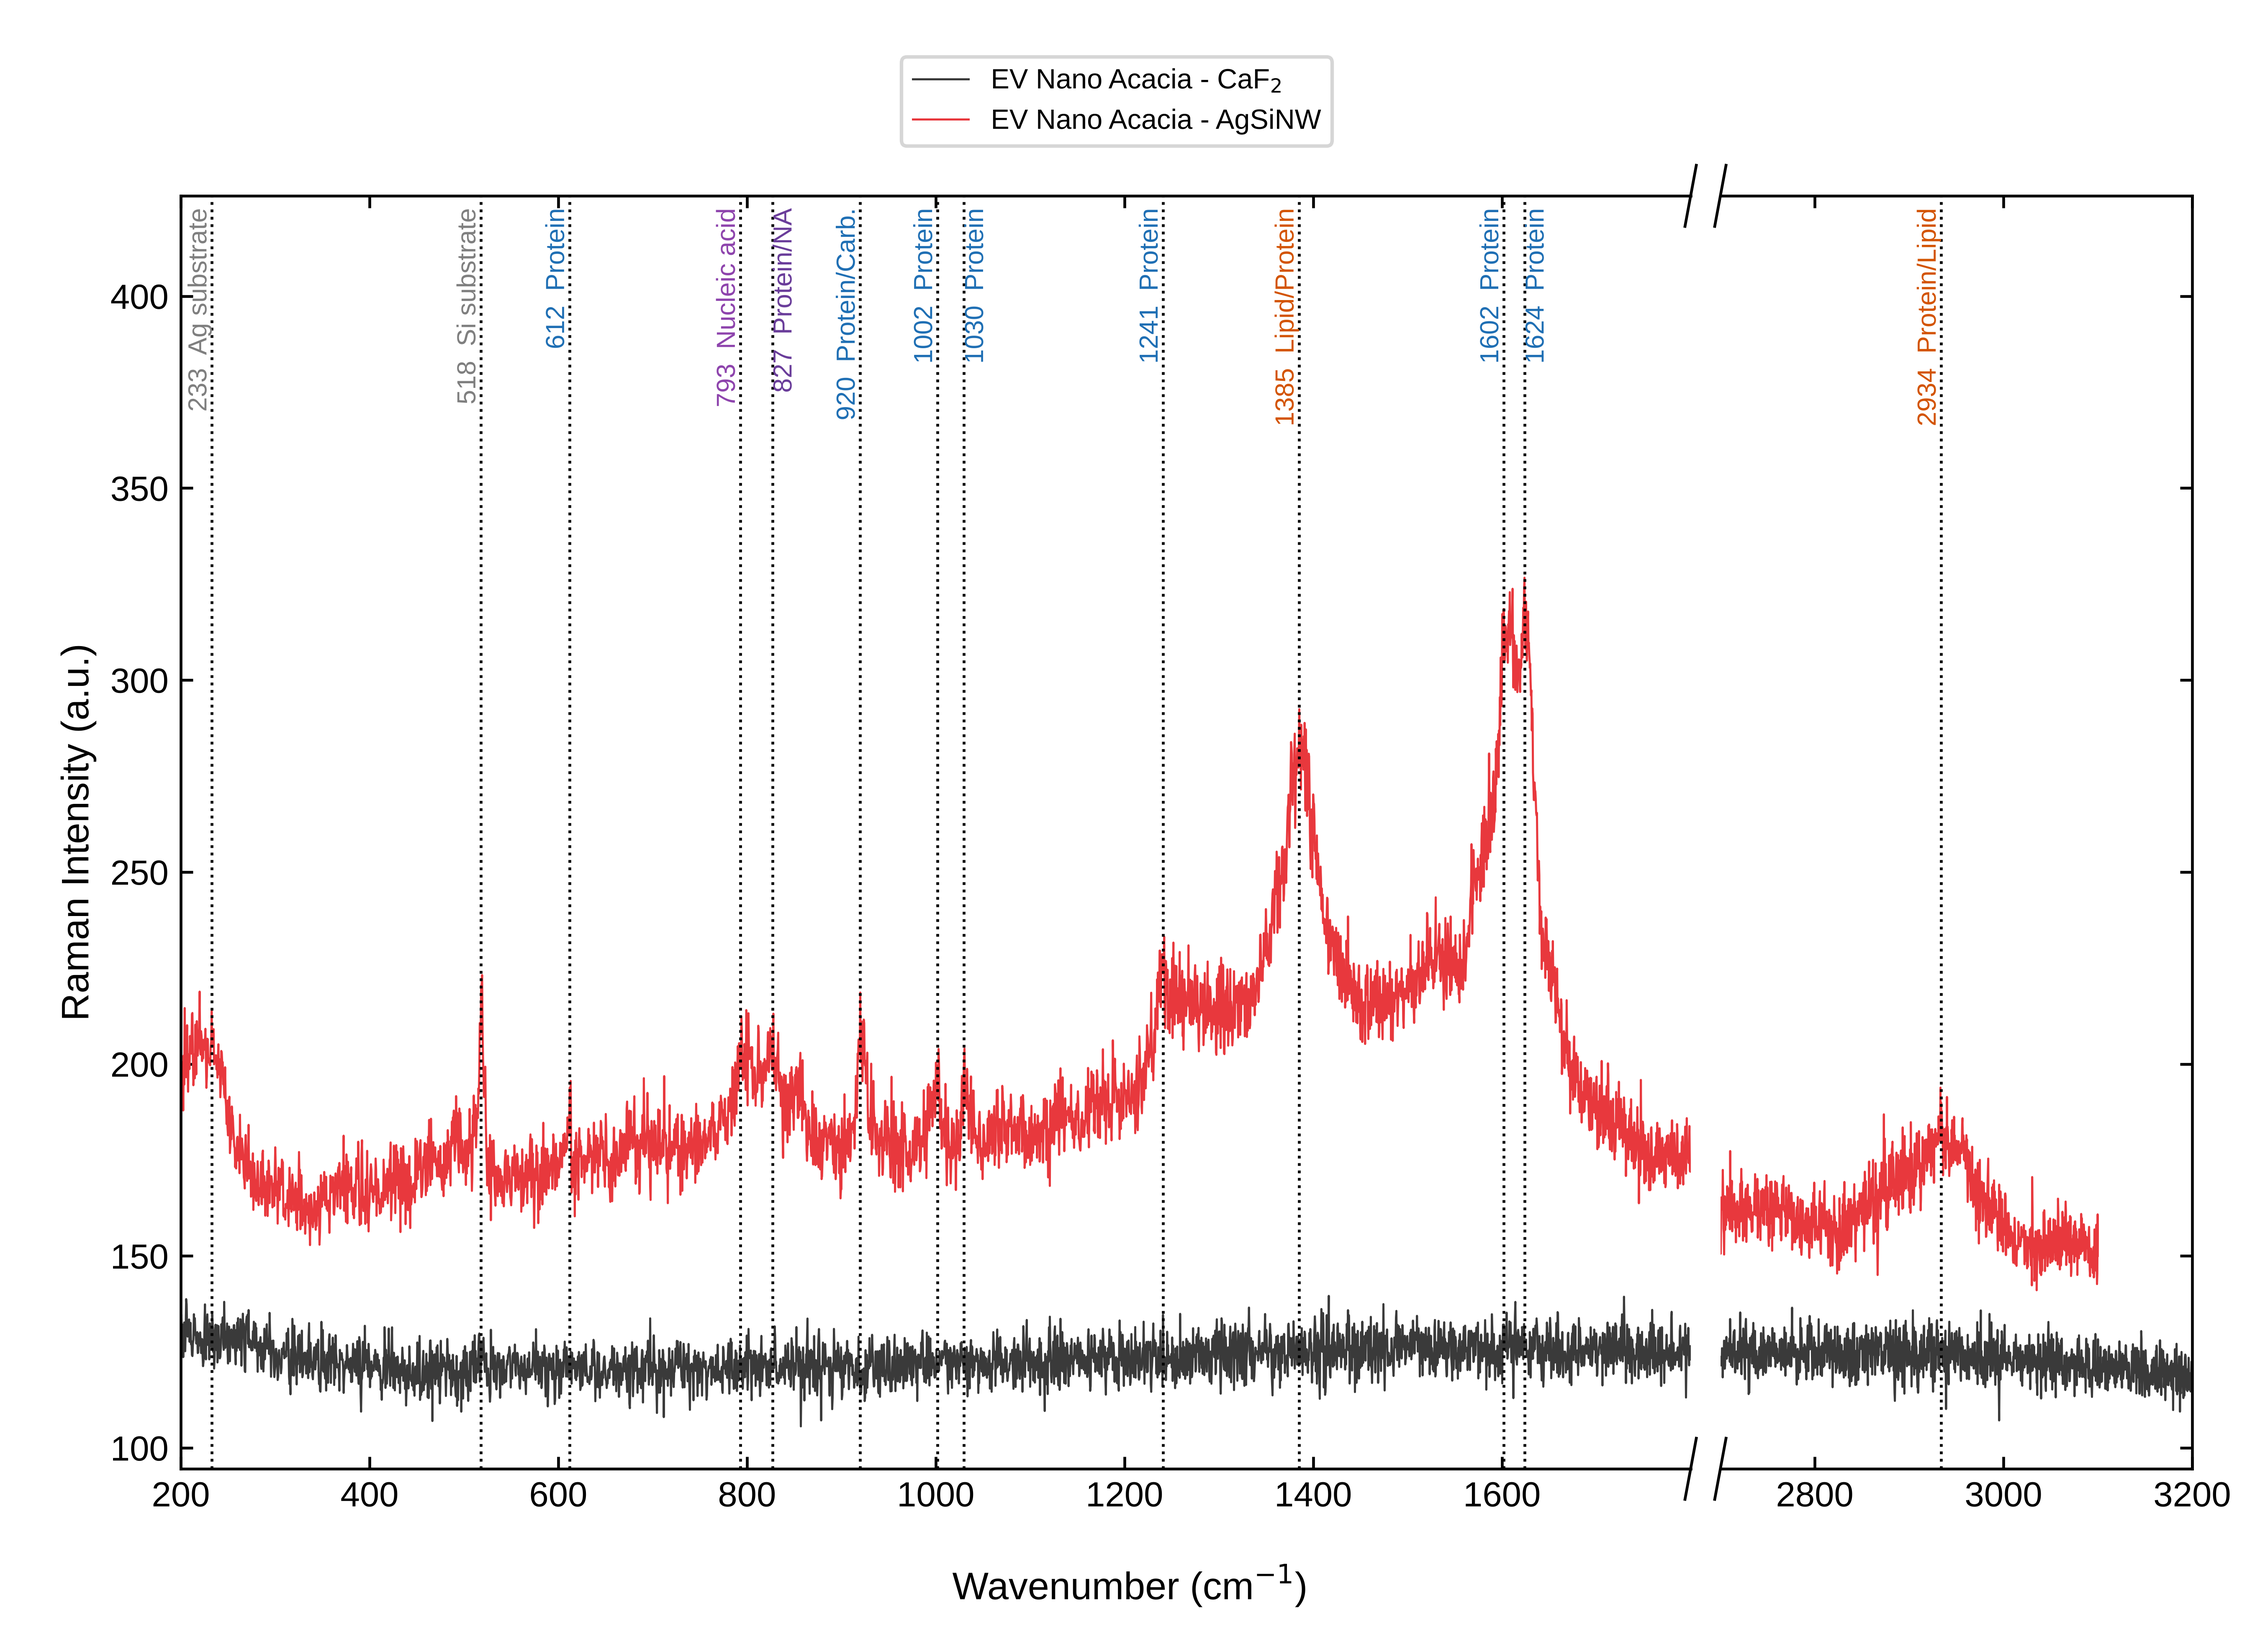
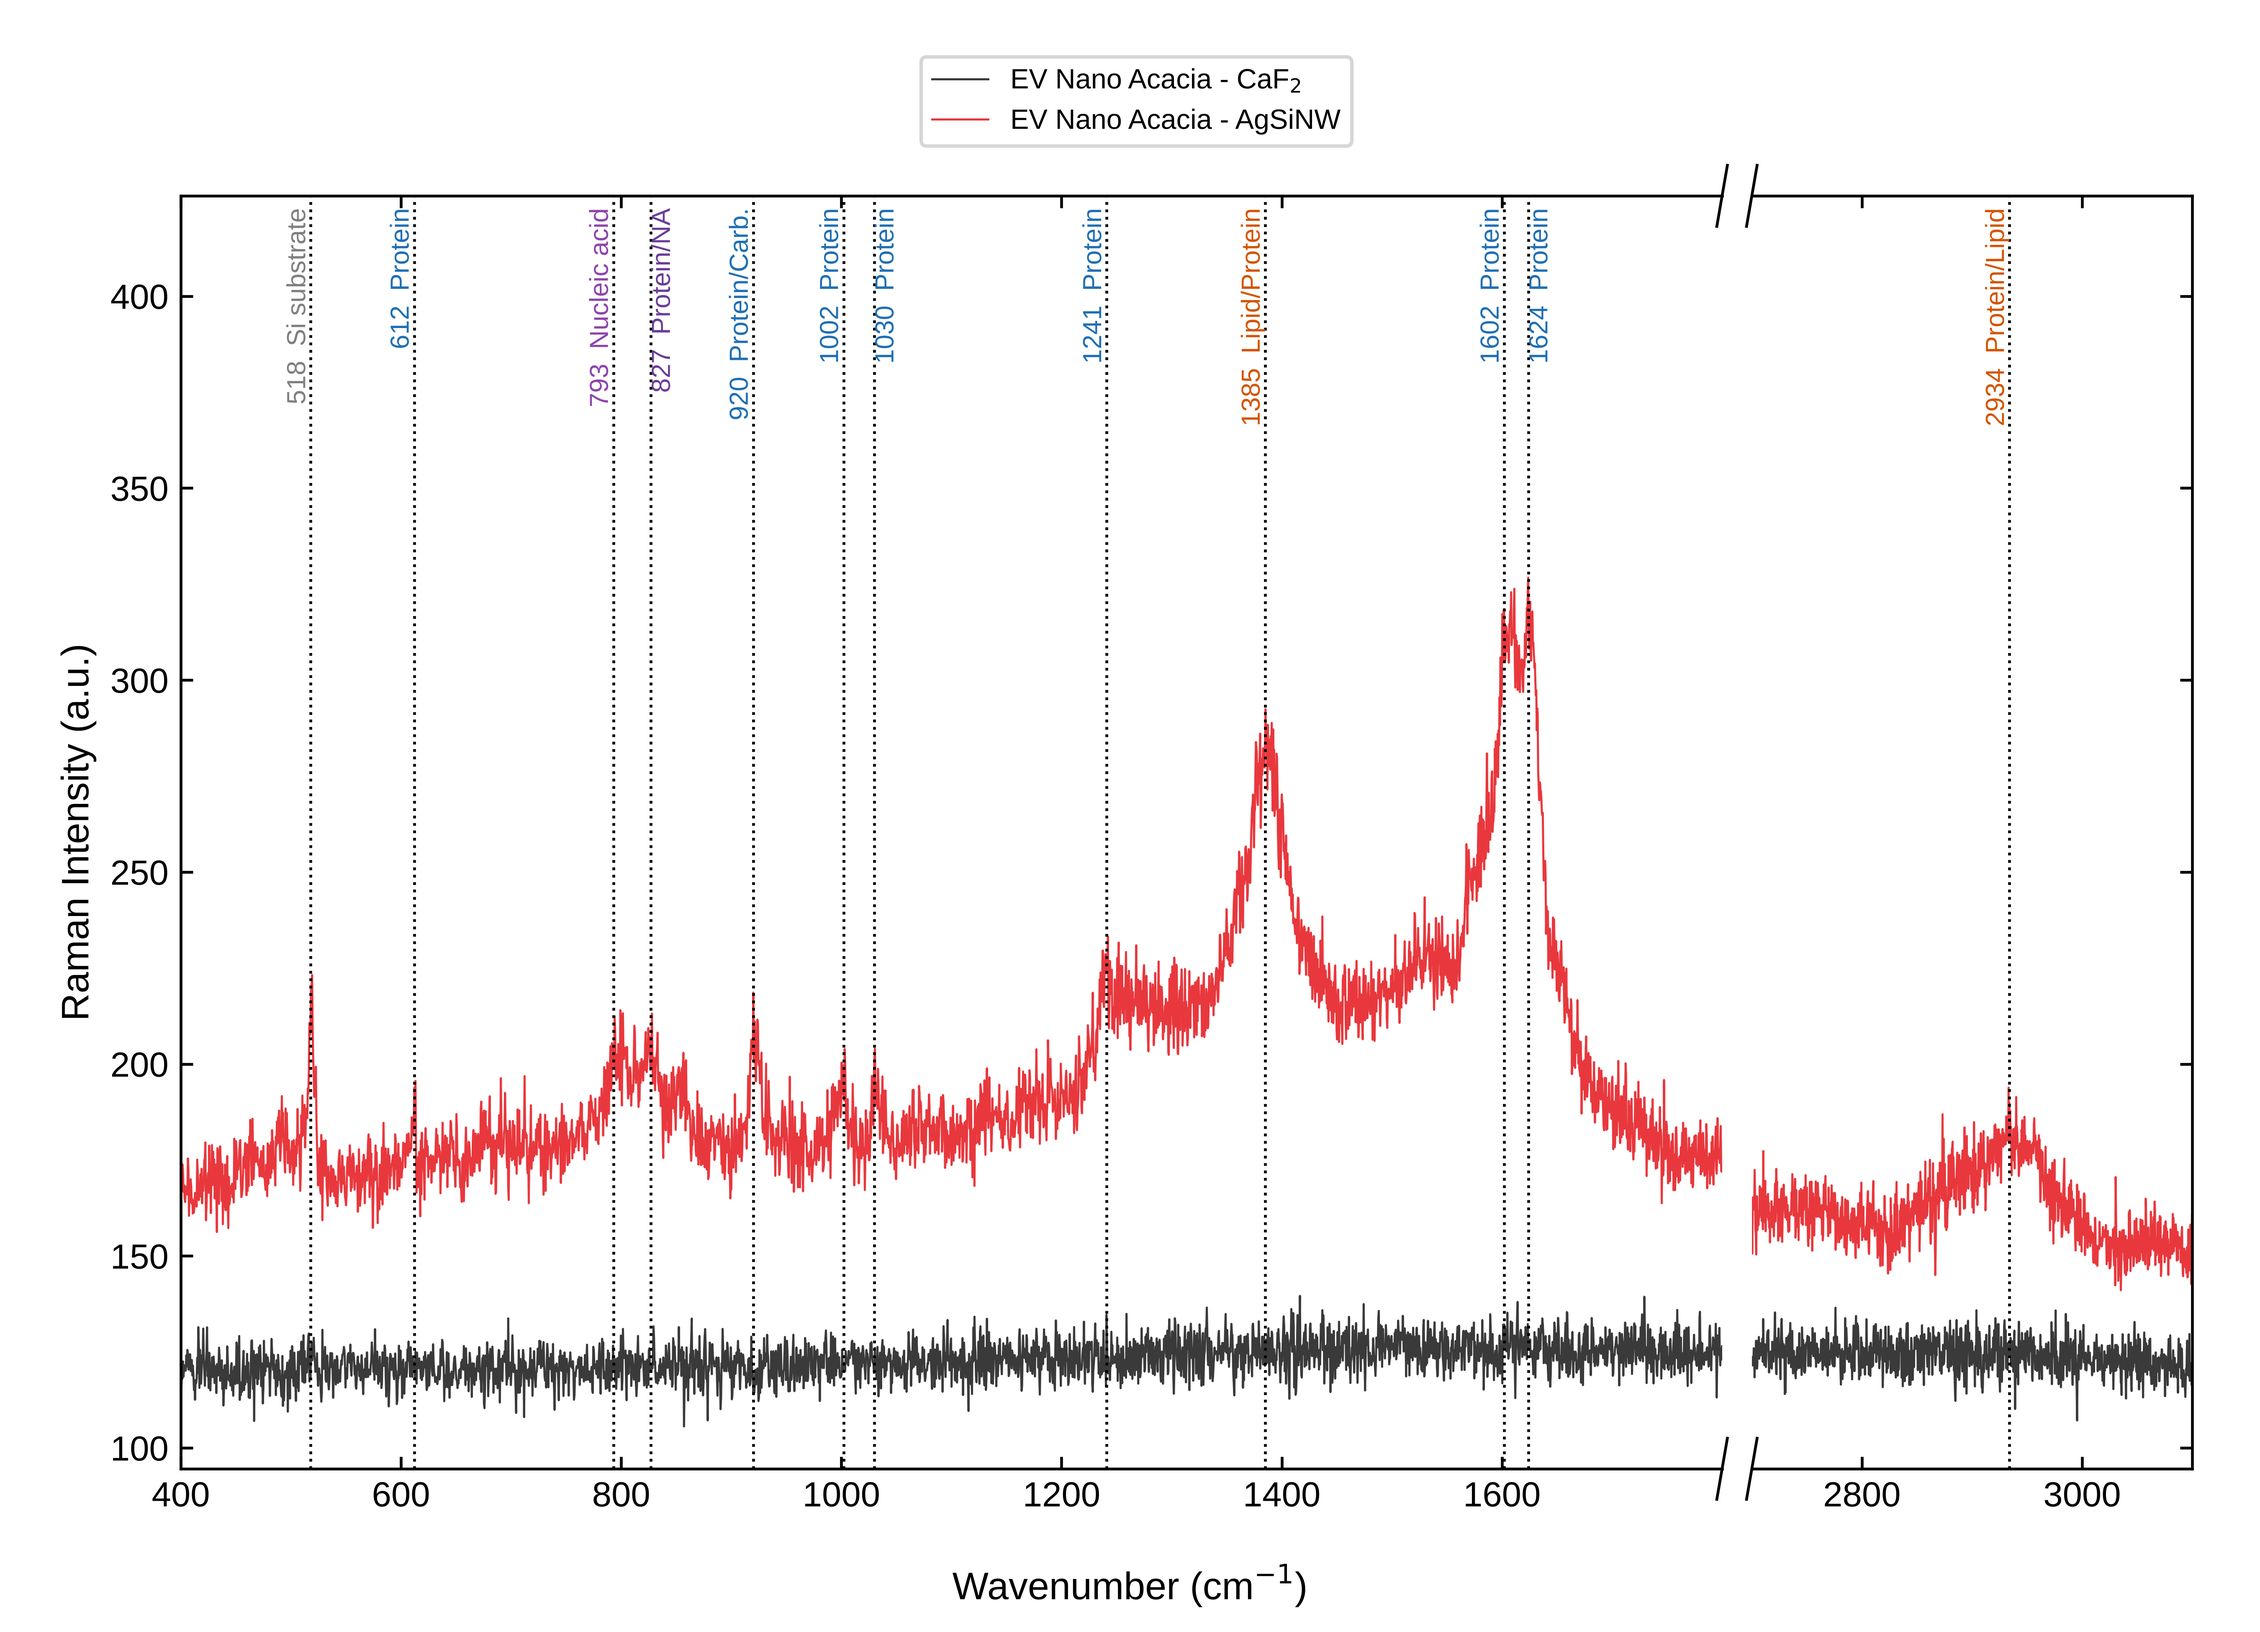
Limit EV Acacia spectra plot to 400-3100 cm-1
Claude-Session: https://claude.ai/code/session_01L8hQ8e5u5KmaH4dD9snyRw

diff --git a/EV_Acacia_TwoSpectra.py b/EV_Acacia_TwoSpectra.py
@@ -43,8 +43,8 @@ OUT_CSV = 'R13_EV_Acacia_PeakAssignments.csv'
 # ----------------------------------------------------------------------------
 # SETTINGS
 # ----------------------------------------------------------------------------
-LOW_MIN, LOW_MAX = 200, 1800
-HIGH_MIN, HIGH_MAX = 2700, 3200
+LOW_MIN, LOW_MAX = 400, 1800
+HIGH_MIN, HIGH_MAX = 2700, 3100
 SEARCH_HALF = 8          # cm-1 window to locate the measured maximum
 
 # (marked on manual plot, class, assignment, source)
@@ -132,8 +132,8 @@ axL.set_ylim(y_min - 0.05 * (y_max - y_min), y_top)
 axL.spines['right'].set_visible(False)
 axR.spines['left'].set_visible(False)
 axR.tick_params(left=False, right=True, labelleft=False)
-axL.set_xticks([200, 400, 600, 800, 1000, 1200, 1400, 1600])
-axR.set_xticks([2800, 3000, 3200])
+axL.set_xticks([400, 600, 800, 1000, 1200, 1400, 1600])
+axR.set_xticks([2800, 3000])
 
 # // break marks
 d = 0.012
